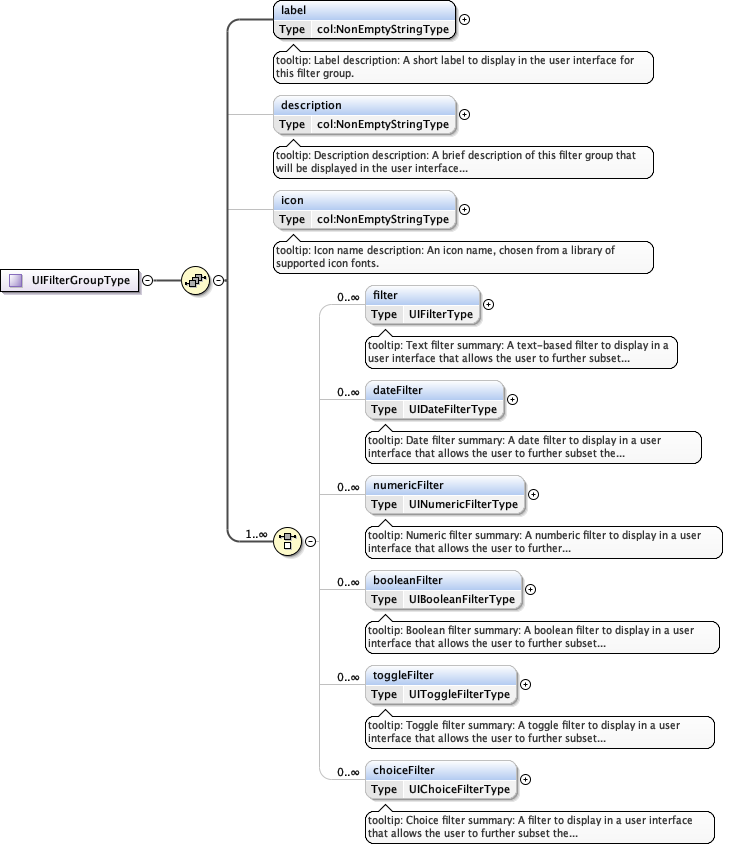
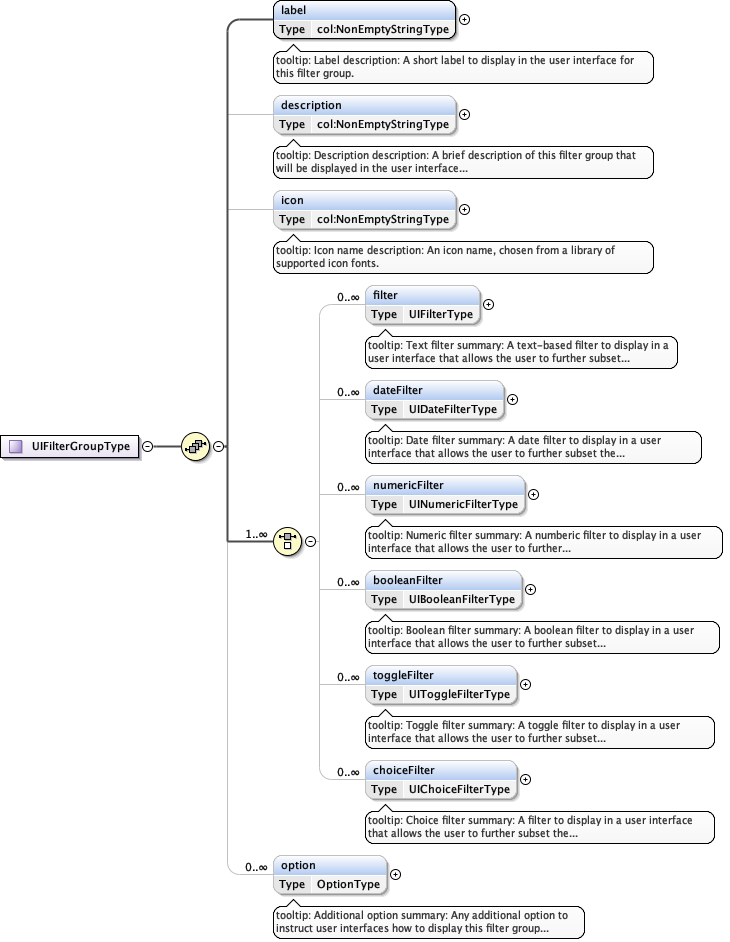
Add <option> to UIFilterGroups type
Closes issue #93

Changed region(s): [[0.3014, 0.0, 0.9945, 1.0], [0.0, 0.307, 0.3014, 0.3684], [0.0, 0.4604, 0.3014, 0.4911]]

diff --git a/docs/web/schema/portals_xsd.html b/docs/web/schema/portals_xsd.html
@@ -66,6 +66,7 @@
 				'properties_ChoiceType_value', 
 				'properties_ChoiceType_choiceOptions', 
 				'properties_UIChoiceFilterType_chooseMultiple', 
+				'properties_UIFilterGroupType_option', 
 				'properties_portal_option');
 var facetsBoxes= new Array('facets_ImageType_identifier', 
 				'facets_ImageType_label', 
@@ -118,6 +119,7 @@ var instanceBoxes= new Array('instance_portal',
 				'instance_UIFilterGroupType_choiceFilter', 
 				'instance_UIChoiceFilterType_choice', 
 				'instance_ChoiceType_choiceOptions', 
+				'instance_UIFilterGroupType_option', 
 				'instance_portal_option');
 var diagramBoxes= new Array('diagram_portal', 
 				'diagram_portal_logo', 
@@ -179,6 +181,7 @@ var diagramBoxes= new Array('diagram_portal',
 				'diagram_ChoiceType_value', 
 				'diagram_ChoiceType_choiceOptions', 
 				'diagram_UIChoiceFilterType_chooseMultiple', 
+				'diagram_UIFilterGroupType_option', 
 				'diagram_portal_option', 
 				'diagram_ImageType', 
 				'diagram_ContentSectionType', 
@@ -253,6 +256,7 @@ var annotationBoxes= new Array('annotations_portal',
 				'annotations_ChoiceType_value', 
 				'annotations_ChoiceType_choiceOptions', 
 				'annotations_UIChoiceFilterType_chooseMultiple', 
+				'annotations_UIFilterGroupType_option', 
 				'annotations_portal_option', 
 				'annotations_OptionType', 
 				'annotations_UIOptionsType');
@@ -289,6 +293,7 @@ var modelBoxes= new Array('model_portal',
 				'model_UIFilterGroupType_choiceFilter', 
 				'model_UIChoiceFilterType_choice', 
 				'model_ChoiceType_choiceOptions', 
+				'model_UIFilterGroupType_option', 
 				'model_portal_option', 
 				'model_ImageType', 
 				'model_ContentSectionType', 
@@ -3438,7 +3443,7 @@ var modelBoxes= new Array('model_portal',
                            <div class="floatRight"><input id="button_diagram_portal_filterGroup" type="image" src="img/btM.gif" value="-" onclick="switchState('diagram_portal_filterGroup');" class="control" /></div>
                         </td>
                         <td class="diagram">
-                           <div id="diagram_portal_filterGroup" style="display:block"><img alt="Diagram" border="0" src="img/portals_xsd_Element_filterGroup.png" usemap="#portals_xsd_Element_filterGroup" /><map name="portals_xsd_Element_filterGroup" id="portals_xsd_Element_filterGroup"><area alt="portals_xsd.tmp#UIFilterGroupType_label" href="portals_xsd.html#UIFilterGroupType_label" coords="317,40,514,82" /><area alt="portals_xsd.tmp#UIFilterGroupType_description" href="portals_xsd.html#UIFilterGroupType_description" coords="317,135,514,177" /><area alt="portals_xsd.tmp#UIFilterGroupType_icon" href="portals_xsd.html#UIFilterGroupType_icon" coords="317,230,514,272" /><area alt="portals_xsd.tmp#UIFilterGroupType_filter" href="portals_xsd.html#UIFilterGroupType_filter" coords="409,325,538,367" /><area alt="portals_xsd.tmp#UIFilterGroupType_dateFilter" href="portals_xsd.html#UIFilterGroupType_dateFilter" coords="409,420,562,462" /><area alt="portals_xsd.tmp#UIFilterGroupType_numericFilter" href="portals_xsd.html#UIFilterGroupType_numericFilter" coords="409,515,583,557" /><area alt="portals_xsd.tmp#UIFilterGroupType_booleanFilter" href="portals_xsd.html#UIFilterGroupType_booleanFilter" coords="409,610,580,652" /><area alt="portals_xsd.tmp#UIFilterGroupType_toggleFilter" href="portals_xsd.html#UIFilterGroupType_toggleFilter" coords="409,705,575,747" /><area alt="portals_xsd.tmp#UIFilterGroupType_choiceFilter" href="portals_xsd.html#UIFilterGroupType_choiceFilter" coords="409,800,575,842" /><area alt="portals_xsd.tmp#UIFilterGroupType" href="portals_xsd.html#UIFilterGroupType" coords="214,3,363,25" /></map></div>
+                           <div id="diagram_portal_filterGroup" style="display:block"><img alt="Diagram" border="0" src="img/portals_xsd_Element_filterGroup.png" usemap="#portals_xsd_Element_filterGroup" /><map name="portals_xsd_Element_filterGroup" id="portals_xsd_Element_filterGroup"><area alt="portals_xsd.tmp#UIFilterGroupType_label" href="portals_xsd.html#UIFilterGroupType_label" coords="317,40,514,82" /><area alt="portals_xsd.tmp#UIFilterGroupType_description" href="portals_xsd.html#UIFilterGroupType_description" coords="317,135,514,177" /><area alt="portals_xsd.tmp#UIFilterGroupType_icon" href="portals_xsd.html#UIFilterGroupType_icon" coords="317,230,514,272" /><area alt="portals_xsd.tmp#UIFilterGroupType_filter" href="portals_xsd.html#UIFilterGroupType_filter" coords="409,325,538,367" /><area alt="portals_xsd.tmp#UIFilterGroupType_dateFilter" href="portals_xsd.html#UIFilterGroupType_dateFilter" coords="409,420,562,462" /><area alt="portals_xsd.tmp#UIFilterGroupType_numericFilter" href="portals_xsd.html#UIFilterGroupType_numericFilter" coords="409,515,583,557" /><area alt="portals_xsd.tmp#UIFilterGroupType_booleanFilter" href="portals_xsd.html#UIFilterGroupType_booleanFilter" coords="409,610,580,652" /><area alt="portals_xsd.tmp#UIFilterGroupType_toggleFilter" href="portals_xsd.html#UIFilterGroupType_toggleFilter" coords="409,705,575,747" /><area alt="portals_xsd.tmp#UIFilterGroupType_choiceFilter" href="portals_xsd.html#UIFilterGroupType_choiceFilter" coords="409,800,575,842" /><area alt="portals_xsd.tmp#UIFilterGroupType_option" href="portals_xsd.html#UIFilterGroupType_option" coords="317,895,445,937" /><area alt="portals_xsd.tmp#UIFilterGroupType" href="portals_xsd.html#UIFilterGroupType" coords="214,3,363,25" /></map></div>
                         </td>
                      </tr>
                      <tr>
@@ -3473,12 +3478,12 @@ var modelBoxes= new Array('model_portal',
                         <td class="firstColumn"><b>Model</b><div class="floatRight"><input id="button_model_portal_filterGroup" type="image" src="img/btM.gif" value="-" onclick="switchState('model_portal_filterGroup');" class="control" /></div>
                         </td>
                         <td>
-                           <div id="model_portal_filterGroup" style="display:block"><b><a href="portals_xsd.html#UIFilterGroupType_label" target="mainFrame" title="No namespace" onclick="updatePageTitle('Schema documentation for portals.xsd')">label</a></b> , <b><a href="portals_xsd.html#UIFilterGroupType_description" target="mainFrame" title="No namespace" onclick="updatePageTitle('Schema documentation for portals.xsd')">description{0,1}</a></b> , <b><a href="portals_xsd.html#UIFilterGroupType_icon" target="mainFrame" title="No namespace" onclick="updatePageTitle('Schema documentation for portals.xsd')">icon{0,1}</a></b> , (<b><a href="portals_xsd.html#UIFilterGroupType_filter" target="mainFrame" title="No namespace" onclick="updatePageTitle('Schema documentation for portals.xsd')">filter*</a></b> | <b><a href="portals_xsd.html#UIFilterGroupType_dateFilter" target="mainFrame" title="No namespace" onclick="updatePageTitle('Schema documentation for portals.xsd')">dateFilter*</a></b> | <b><a href="portals_xsd.html#UIFilterGroupType_numericFilter" target="mainFrame" title="No namespace" onclick="updatePageTitle('Schema documentation for portals.xsd')">numericFilter*</a></b> | <b><a href="portals_xsd.html#UIFilterGroupType_booleanFilter" target="mainFrame" title="No namespace" onclick="updatePageTitle('Schema documentation for portals.xsd')">booleanFilter*</a></b> | <b><a href="portals_xsd.html#UIFilterGroupType_toggleFilter" target="mainFrame" title="No namespace" onclick="updatePageTitle('Schema documentation for portals.xsd')">toggleFilter*</a></b> | <b><a href="portals_xsd.html#UIFilterGroupType_choiceFilter" target="mainFrame" title="No namespace" onclick="updatePageTitle('Schema documentation for portals.xsd')">choiceFilter*</a></b>)</div>
+                           <div id="model_portal_filterGroup" style="display:block"><b><a href="portals_xsd.html#UIFilterGroupType_label" target="mainFrame" title="No namespace" onclick="updatePageTitle('Schema documentation for portals.xsd')">label</a></b> , <b><a href="portals_xsd.html#UIFilterGroupType_description" target="mainFrame" title="No namespace" onclick="updatePageTitle('Schema documentation for portals.xsd')">description{0,1}</a></b> , <b><a href="portals_xsd.html#UIFilterGroupType_icon" target="mainFrame" title="No namespace" onclick="updatePageTitle('Schema documentation for portals.xsd')">icon{0,1}</a></b> , (<b><a href="portals_xsd.html#UIFilterGroupType_filter" target="mainFrame" title="No namespace" onclick="updatePageTitle('Schema documentation for portals.xsd')">filter*</a></b> | <b><a href="portals_xsd.html#UIFilterGroupType_dateFilter" target="mainFrame" title="No namespace" onclick="updatePageTitle('Schema documentation for portals.xsd')">dateFilter*</a></b> | <b><a href="portals_xsd.html#UIFilterGroupType_numericFilter" target="mainFrame" title="No namespace" onclick="updatePageTitle('Schema documentation for portals.xsd')">numericFilter*</a></b> | <b><a href="portals_xsd.html#UIFilterGroupType_booleanFilter" target="mainFrame" title="No namespace" onclick="updatePageTitle('Schema documentation for portals.xsd')">booleanFilter*</a></b> | <b><a href="portals_xsd.html#UIFilterGroupType_toggleFilter" target="mainFrame" title="No namespace" onclick="updatePageTitle('Schema documentation for portals.xsd')">toggleFilter*</a></b> | <b><a href="portals_xsd.html#UIFilterGroupType_choiceFilter" target="mainFrame" title="No namespace" onclick="updatePageTitle('Schema documentation for portals.xsd')">choiceFilter*</a></b>) , <b><a href="portals_xsd.html#UIFilterGroupType_option" target="mainFrame" title="No namespace" onclick="updatePageTitle('Schema documentation for portals.xsd')">option*</a></b></div>
                         </td>
                      </tr>
                      <tr>
                         <td class="firstColumn"><b>Children</b></td>
-                        <td><b><a href="portals_xsd.html#UIFilterGroupType_booleanFilter" target="mainFrame" title="No namespace" onclick="updatePageTitle('Schema documentation for portals.xsd')">booleanFilter</a></b>, <b><a href="portals_xsd.html#UIFilterGroupType_choiceFilter" target="mainFrame" title="No namespace" onclick="updatePageTitle('Schema documentation for portals.xsd')">choiceFilter</a></b>, <b><a href="portals_xsd.html#UIFilterGroupType_dateFilter" target="mainFrame" title="No namespace" onclick="updatePageTitle('Schema documentation for portals.xsd')">dateFilter</a></b>, <b><a href="portals_xsd.html#UIFilterGroupType_description" target="mainFrame" title="No namespace" onclick="updatePageTitle('Schema documentation for portals.xsd')">description</a></b>, <b><a href="portals_xsd.html#UIFilterGroupType_filter" target="mainFrame" title="No namespace" onclick="updatePageTitle('Schema documentation for portals.xsd')">filter</a></b>, <b><a href="portals_xsd.html#UIFilterGroupType_icon" target="mainFrame" title="No namespace" onclick="updatePageTitle('Schema documentation for portals.xsd')">icon</a></b>, <b><a href="portals_xsd.html#UIFilterGroupType_label" target="mainFrame" title="No namespace" onclick="updatePageTitle('Schema documentation for portals.xsd')">label</a></b>, <b><a href="portals_xsd.html#UIFilterGroupType_numericFilter" target="mainFrame" title="No namespace" onclick="updatePageTitle('Schema documentation for portals.xsd')">numericFilter</a></b>, <b><a href="portals_xsd.html#UIFilterGroupType_toggleFilter" target="mainFrame" title="No namespace" onclick="updatePageTitle('Schema documentation for portals.xsd')">toggleFilter</a></b></td>
+                        <td><b><a href="portals_xsd.html#UIFilterGroupType_booleanFilter" target="mainFrame" title="No namespace" onclick="updatePageTitle('Schema documentation for portals.xsd')">booleanFilter</a></b>, <b><a href="portals_xsd.html#UIFilterGroupType_choiceFilter" target="mainFrame" title="No namespace" onclick="updatePageTitle('Schema documentation for portals.xsd')">choiceFilter</a></b>, <b><a href="portals_xsd.html#UIFilterGroupType_dateFilter" target="mainFrame" title="No namespace" onclick="updatePageTitle('Schema documentation for portals.xsd')">dateFilter</a></b>, <b><a href="portals_xsd.html#UIFilterGroupType_description" target="mainFrame" title="No namespace" onclick="updatePageTitle('Schema documentation for portals.xsd')">description</a></b>, <b><a href="portals_xsd.html#UIFilterGroupType_filter" target="mainFrame" title="No namespace" onclick="updatePageTitle('Schema documentation for portals.xsd')">filter</a></b>, <b><a href="portals_xsd.html#UIFilterGroupType_icon" target="mainFrame" title="No namespace" onclick="updatePageTitle('Schema documentation for portals.xsd')">icon</a></b>, <b><a href="portals_xsd.html#UIFilterGroupType_label" target="mainFrame" title="No namespace" onclick="updatePageTitle('Schema documentation for portals.xsd')">label</a></b>, <b><a href="portals_xsd.html#UIFilterGroupType_numericFilter" target="mainFrame" title="No namespace" onclick="updatePageTitle('Schema documentation for portals.xsd')">numericFilter</a></b>, <b><a href="portals_xsd.html#UIFilterGroupType_option" target="mainFrame" title="No namespace" onclick="updatePageTitle('Schema documentation for portals.xsd')">option</a></b>, <b><a href="portals_xsd.html#UIFilterGroupType_toggleFilter" target="mainFrame" title="No namespace" onclick="updatePageTitle('Schema documentation for portals.xsd')">toggleFilter</a></b></td>
                      </tr>
                      <tr>
                         <td class="firstColumn">
@@ -3500,6 +3505,7 @@ var modelBoxes= new Array('model_portal',
   </span><span class="tEl">&lt;booleanFilter</span><span class="tEl">&gt;</span><span class="tT" style="white-space:normal">{0,unbounded}</span><span class="tEl">&lt;/booleanFilter&gt;</span><span class="tI">
   </span><span class="tEl">&lt;toggleFilter</span><span class="tEl">&gt;</span><span class="tT" style="white-space:normal">{0,unbounded}</span><span class="tEl">&lt;/toggleFilter&gt;</span><span class="tI">
   </span><span class="tEl">&lt;choiceFilter</span><span class="tEl">&gt;</span><span class="tT" style="white-space:normal">{0,unbounded}</span><span class="tEl">&lt;/choiceFilter&gt;</span><span class="tI">
+  </span><span class="tEl">&lt;option</span><span class="tEl">&gt;</span><span class="tT" style="white-space:normal">{0,unbounded}</span><span class="tEl">&lt;/option&gt;</span><span class="tI">
 </span><span class="tEl">&lt;/filterGroup&gt;</span></pre>
                                     </td>
                                  </tr>
@@ -7628,6 +7634,122 @@ var modelBoxes= new Array('model_portal',
             <td class="rt_lineBottom"></td>
             <td class="rt_cornerBottomRight"></td>
          </tr>
+      </table><a id="UIFilterGroupType_option"></a><div class="componentTitle">Element <span class="qname"><b><a href="portals_xsd.html#UIFilterGroupType" target="mainFrame" title="https://purl.dataone.org/portals-1.0.0" onclick="updatePageTitle('Schema documentation for portals.xsd')">UIFilterGroupType</a></b> / option</span></div>
+      <table class="rt">
+         <tr>
+            <td class="rt_cornerTopLeft"></td>
+            <td class="rt_lineTop"></td>
+            <td class="rt_cornerTopRight"></td>
+         </tr>
+         <tr>
+            <td class="rt_lineLeft"></td>
+            <td class="rt_content">
+               <table class="component">
+                  <tbody>
+                     <tr>
+                        <td class="firstColumn"><b>Namespace</b></td>
+                        <td>No namespace</td>
+                     </tr>
+                     <tr>
+                        <td class="firstColumn">
+                           <div class="floatLeft"><b>Annotations</b></div>
+                           <div class="floatRight"><input id="button_annotations_UIFilterGroupType_option" type="image" src="img/btM.gif" value="-" onclick="switchState('annotations_UIFilterGroupType_option');" class="control" /></div>
+                        </td>
+                        <td>
+                           <div id="annotations_UIFilterGroupType_option" style="display:block">
+                              <div class="annotation">
+                                 <table style="table-layout:fixed;white-space:pre-wrap;white-space:-moz-pre-wrap;white-space:-pre-wrap;white-space: -o-pre-wrap;word-wrap: break-word;_white-space:pre;" class="preWrapContainer">
+                                    <tr>
+                                       <td width="100%">
+                                          <pre><span class="tT">tooltip: Additional option</span><span class="tI">
+</span><span class="tT"></span><span class="tI">
+</span><span class="tT">summary: Any additional option to instruct user interfaces how to display this</span><span class="tI">
+</span><span class="tT">              filter group in the portal.</span></pre>
+                                       </td>
+                                    </tr>
+                                 </table>
+                              </div>
+                           </div>
+                        </td>
+                     </tr>
+                     <tr>
+                        <td class="firstColumn">
+                           <div class="floatLeft"><b>Diagram</b></div>
+                           <div class="floatRight"><input id="button_diagram_UIFilterGroupType_option" type="image" src="img/btM.gif" value="-" onclick="switchState('diagram_UIFilterGroupType_option');" class="control" /></div>
+                        </td>
+                        <td class="diagram">
+                           <div id="diagram_UIFilterGroupType_option" style="display:block"><img alt="Diagram" border="0" src="img/portals_xsd_Element_option_3.png" usemap="#portals_xsd_Element_option_3" /><map name="portals_xsd_Element_option_3" id="portals_xsd_Element_option_3"><area alt="portals_xsd.tmp#OptionType_optionName" href="portals_xsd.html#OptionType_optionName" coords="282,40,479,82" /><area alt="portals_xsd.tmp#OptionType_optionValue" href="portals_xsd.html#OptionType_optionValue" coords="282,135,479,177" /><area alt="portals_xsd.tmp#OptionType" href="portals_xsd.html#OptionType" coords="179,3,293,25" /></map></div>
+                        </td>
+                     </tr>
+                     <tr>
+                        <td class="firstColumn"><b>Type</b></td>
+                        <td><b><a href="portals_xsd.html#OptionType" target="mainFrame" title="https://purl.dataone.org/portals-1.0.0" onclick="updatePageTitle('Schema documentation for portals.xsd')">OptionType</a></b></td>
+                     </tr>
+                     <tr>
+                        <td class="firstColumn">
+                           <div class="floatLeft"><b>Properties</b></div>
+                           <div class="floatRight"><input id="button_properties_UIFilterGroupType_option" type="image" src="img/btM.gif" value="-" onclick="switchState('properties_UIFilterGroupType_option');" class="control" /></div>
+                        </td>
+                        <td>
+                           <div id="properties_UIFilterGroupType_option" style="display:block">
+                              <table class="propertiesTable">
+                                 <tr>
+                                    <td class="firstColumn" style="white-space: nowrap;">content</td>
+                                    <td><b>complex</b></td>
+                                 </tr>
+                                 <tr>
+                                    <td class="firstColumn" style="white-space: nowrap;">minOccurs</td>
+                                    <td><b>0</b></td>
+                                 </tr>
+                                 <tr>
+                                    <td class="firstColumn" style="white-space: nowrap;">maxOccurs</td>
+                                    <td><b>unbounded</b></td>
+                                 </tr>
+                              </table>
+                           </div>
+                        </td>
+                     </tr>
+                     <tr>
+                        <td class="firstColumn"><b>Model</b><div class="floatRight"><input id="button_model_UIFilterGroupType_option" type="image" src="img/btM.gif" value="-" onclick="switchState('model_UIFilterGroupType_option');" class="control" /></div>
+                        </td>
+                        <td>
+                           <div id="model_UIFilterGroupType_option" style="display:block"><b><a href="portals_xsd.html#OptionType_optionName" target="mainFrame" title="No namespace" onclick="updatePageTitle('Schema documentation for portals.xsd')">optionName</a></b> , <b><a href="portals_xsd.html#OptionType_optionValue" target="mainFrame" title="No namespace" onclick="updatePageTitle('Schema documentation for portals.xsd')">optionValue+</a></b></div>
+                        </td>
+                     </tr>
+                     <tr>
+                        <td class="firstColumn"><b>Children</b></td>
+                        <td><b><a href="portals_xsd.html#OptionType_optionName" target="mainFrame" title="No namespace" onclick="updatePageTitle('Schema documentation for portals.xsd')">optionName</a></b>, <b><a href="portals_xsd.html#OptionType_optionValue" target="mainFrame" title="No namespace" onclick="updatePageTitle('Schema documentation for portals.xsd')">optionValue</a></b></td>
+                     </tr>
+                     <tr>
+                        <td class="firstColumn">
+                           <div class="floatLeft"><b>Instance</b></div>
+                           <div class="floatRight"><input id="button_instance_UIFilterGroupType_option" type="image" src="img/btM.gif" value="-" onclick="switchState('instance_UIFilterGroupType_option');" class="control" /></div>
+                        </td>
+                        <td>
+                           <div id="instance_UIFilterGroupType_option" style="display:block">
+                              <table style="table-layout:fixed;white-space:pre-wrap;white-space:-moz-pre-wrap;white-space:-pre-wrap;white-space: -o-pre-wrap;word-wrap: break-word;_white-space:pre;" class="preWrapContainer">
+                                 <tr>
+                                    <td width="100%">
+                                       <pre><span class="tEl">&lt;option</span><span class="tEl">&gt;</span><span class="tI">
+  </span><span class="tEl">&lt;optionName</span><span class="tEl">&gt;</span><span class="tT" style="white-space:normal">{1,1}</span><span class="tEl">&lt;/optionName&gt;</span><span class="tI">
+  </span><span class="tEl">&lt;optionValue</span><span class="tEl">&gt;</span><span class="tT" style="white-space:normal">{1,unbounded}</span><span class="tEl">&lt;/optionValue&gt;</span><span class="tI">
+</span><span class="tEl">&lt;/option&gt;</span></pre>
+                                    </td>
+                                 </tr>
+                              </table>
+                           </div>
+                        </td>
+                     </tr>
+                  </tbody>
+               </table>
+            </td>
+            <td class="rt_lineRight"></td>
+         </tr>
+         <tr>
+            <td class="rt_cornerBottomLeft"></td>
+            <td class="rt_lineBottom"></td>
+            <td class="rt_cornerBottomRight"></td>
+         </tr>
       </table><a id="portal_option"></a><div class="componentTitle">Element <span class="qname"><b><a href="portals_xsd.html#portal" target="mainFrame" title="https://purl.dataone.org/portals-1.0.0" onclick="updatePageTitle('Schema documentation for portals.xsd')">portal</a></b> / option</span></div>
       <table class="rt">
          <tr>
@@ -7673,7 +7795,7 @@ var modelBoxes= new Array('model_portal',
                            <div class="floatRight"><input id="button_diagram_portal_option" type="image" src="img/btM.gif" value="-" onclick="switchState('diagram_portal_option');" class="control" /></div>
                         </td>
                         <td class="diagram">
-                           <div id="diagram_portal_option" style="display:block"><img alt="Diagram" border="0" src="img/portals_xsd_Element_option_3.png" usemap="#portals_xsd_Element_option_3" /><map name="portals_xsd_Element_option_3" id="portals_xsd_Element_option_3"><area alt="portals_xsd.tmp#OptionType_optionName" href="portals_xsd.html#OptionType_optionName" coords="282,40,479,82" /><area alt="portals_xsd.tmp#OptionType_optionValue" href="portals_xsd.html#OptionType_optionValue" coords="282,135,479,177" /><area alt="portals_xsd.tmp#OptionType" href="portals_xsd.html#OptionType" coords="179,3,293,25" /></map></div>
+                           <div id="diagram_portal_option" style="display:block"><img alt="Diagram" border="0" src="img/portals_xsd_Element_option_4.png" usemap="#portals_xsd_Element_option_4" /><map name="portals_xsd_Element_option_4" id="portals_xsd_Element_option_4"><area alt="portals_xsd.tmp#OptionType_optionName" href="portals_xsd.html#OptionType_optionName" coords="282,40,479,82" /><area alt="portals_xsd.tmp#OptionType_optionValue" href="portals_xsd.html#OptionType_optionValue" coords="282,135,479,177" /><area alt="portals_xsd.tmp#OptionType" href="portals_xsd.html#OptionType" coords="179,3,293,25" /></map></div>
                         </td>
                      </tr>
                      <tr>
@@ -7989,19 +8111,19 @@ var modelBoxes= new Array('model_portal',
                            <div class="floatRight"><input id="button_diagram_UIFilterGroupType" type="image" src="img/btM.gif" value="-" onclick="switchState('diagram_UIFilterGroupType');" class="control" /></div>
                         </td>
                         <td class="diagram">
-                           <div id="diagram_UIFilterGroupType" style="display:block"><img alt="Diagram" border="0" src="img/portals_xsd_Complex_Type_UIFilterGroupType.png" usemap="#portals_xsd_Complex_Type_UIFilterGroupType" /><map name="portals_xsd_Complex_Type_UIFilterGroupType" id="portals_xsd_Complex_Type_UIFilterGroupType"><area alt="portals_xsd.tmp#UIFilterGroupType_label" href="portals_xsd.html#UIFilterGroupType_label" coords="273,0,470,42" /><area alt="portals_xsd.tmp#UIFilterGroupType_description" href="portals_xsd.html#UIFilterGroupType_description" coords="273,95,470,137" /><area alt="portals_xsd.tmp#UIFilterGroupType_icon" href="portals_xsd.html#UIFilterGroupType_icon" coords="273,190,470,232" /><area alt="portals_xsd.tmp#UIFilterGroupType_filter" href="portals_xsd.html#UIFilterGroupType_filter" coords="365,285,494,327" /><area alt="portals_xsd.tmp#UIFilterGroupType_dateFilter" href="portals_xsd.html#UIFilterGroupType_dateFilter" coords="365,380,518,422" /><area alt="portals_xsd.tmp#UIFilterGroupType_numericFilter" href="portals_xsd.html#UIFilterGroupType_numericFilter" coords="365,475,539,517" /><area alt="portals_xsd.tmp#UIFilterGroupType_booleanFilter" href="portals_xsd.html#UIFilterGroupType_booleanFilter" coords="365,570,536,612" /><area alt="portals_xsd.tmp#UIFilterGroupType_toggleFilter" href="portals_xsd.html#UIFilterGroupType_toggleFilter" coords="365,665,531,707" /><area alt="portals_xsd.tmp#UIFilterGroupType_choiceFilter" href="portals_xsd.html#UIFilterGroupType_choiceFilter" coords="365,760,531,802" /></map></div>
+                           <div id="diagram_UIFilterGroupType" style="display:block"><img alt="Diagram" border="0" src="img/portals_xsd_Complex_Type_UIFilterGroupType.png" usemap="#portals_xsd_Complex_Type_UIFilterGroupType" /><map name="portals_xsd_Complex_Type_UIFilterGroupType" id="portals_xsd_Complex_Type_UIFilterGroupType"><area alt="portals_xsd.tmp#UIFilterGroupType_label" href="portals_xsd.html#UIFilterGroupType_label" coords="273,0,470,42" /><area alt="portals_xsd.tmp#UIFilterGroupType_description" href="portals_xsd.html#UIFilterGroupType_description" coords="273,95,470,137" /><area alt="portals_xsd.tmp#UIFilterGroupType_icon" href="portals_xsd.html#UIFilterGroupType_icon" coords="273,190,470,232" /><area alt="portals_xsd.tmp#UIFilterGroupType_filter" href="portals_xsd.html#UIFilterGroupType_filter" coords="365,285,494,327" /><area alt="portals_xsd.tmp#UIFilterGroupType_dateFilter" href="portals_xsd.html#UIFilterGroupType_dateFilter" coords="365,380,518,422" /><area alt="portals_xsd.tmp#UIFilterGroupType_numericFilter" href="portals_xsd.html#UIFilterGroupType_numericFilter" coords="365,475,539,517" /><area alt="portals_xsd.tmp#UIFilterGroupType_booleanFilter" href="portals_xsd.html#UIFilterGroupType_booleanFilter" coords="365,570,536,612" /><area alt="portals_xsd.tmp#UIFilterGroupType_toggleFilter" href="portals_xsd.html#UIFilterGroupType_toggleFilter" coords="365,665,531,707" /><area alt="portals_xsd.tmp#UIFilterGroupType_choiceFilter" href="portals_xsd.html#UIFilterGroupType_choiceFilter" coords="365,760,531,802" /><area alt="portals_xsd.tmp#UIFilterGroupType_option" href="portals_xsd.html#UIFilterGroupType_option" coords="273,855,401,897" /></map></div>
                         </td>
                      </tr>
                      <tr>
                         <td class="firstColumn"><b>Model</b><div class="floatRight"><input id="button_model_UIFilterGroupType" type="image" src="img/btM.gif" value="-" onclick="switchState('model_UIFilterGroupType');" class="control" /></div>
                         </td>
                         <td>
-                           <div id="model_UIFilterGroupType" style="display:block"><b><a href="portals_xsd.html#UIFilterGroupType_label" target="mainFrame" title="No namespace" onclick="updatePageTitle('Schema documentation for portals.xsd')">label</a></b> , <b><a href="portals_xsd.html#UIFilterGroupType_description" target="mainFrame" title="No namespace" onclick="updatePageTitle('Schema documentation for portals.xsd')">description{0,1}</a></b> , <b><a href="portals_xsd.html#UIFilterGroupType_icon" target="mainFrame" title="No namespace" onclick="updatePageTitle('Schema documentation for portals.xsd')">icon{0,1}</a></b> , (<b><a href="portals_xsd.html#UIFilterGroupType_filter" target="mainFrame" title="No namespace" onclick="updatePageTitle('Schema documentation for portals.xsd')">filter*</a></b> | <b><a href="portals_xsd.html#UIFilterGroupType_dateFilter" target="mainFrame" title="No namespace" onclick="updatePageTitle('Schema documentation for portals.xsd')">dateFilter*</a></b> | <b><a href="portals_xsd.html#UIFilterGroupType_numericFilter" target="mainFrame" title="No namespace" onclick="updatePageTitle('Schema documentation for portals.xsd')">numericFilter*</a></b> | <b><a href="portals_xsd.html#UIFilterGroupType_booleanFilter" target="mainFrame" title="No namespace" onclick="updatePageTitle('Schema documentation for portals.xsd')">booleanFilter*</a></b> | <b><a href="portals_xsd.html#UIFilterGroupType_toggleFilter" target="mainFrame" title="No namespace" onclick="updatePageTitle('Schema documentation for portals.xsd')">toggleFilter*</a></b> | <b><a href="portals_xsd.html#UIFilterGroupType_choiceFilter" target="mainFrame" title="No namespace" onclick="updatePageTitle('Schema documentation for portals.xsd')">choiceFilter*</a></b>)</div>
+                           <div id="model_UIFilterGroupType" style="display:block"><b><a href="portals_xsd.html#UIFilterGroupType_label" target="mainFrame" title="No namespace" onclick="updatePageTitle('Schema documentation for portals.xsd')">label</a></b> , <b><a href="portals_xsd.html#UIFilterGroupType_description" target="mainFrame" title="No namespace" onclick="updatePageTitle('Schema documentation for portals.xsd')">description{0,1}</a></b> , <b><a href="portals_xsd.html#UIFilterGroupType_icon" target="mainFrame" title="No namespace" onclick="updatePageTitle('Schema documentation for portals.xsd')">icon{0,1}</a></b> , (<b><a href="portals_xsd.html#UIFilterGroupType_filter" target="mainFrame" title="No namespace" onclick="updatePageTitle('Schema documentation for portals.xsd')">filter*</a></b> | <b><a href="portals_xsd.html#UIFilterGroupType_dateFilter" target="mainFrame" title="No namespace" onclick="updatePageTitle('Schema documentation for portals.xsd')">dateFilter*</a></b> | <b><a href="portals_xsd.html#UIFilterGroupType_numericFilter" target="mainFrame" title="No namespace" onclick="updatePageTitle('Schema documentation for portals.xsd')">numericFilter*</a></b> | <b><a href="portals_xsd.html#UIFilterGroupType_booleanFilter" target="mainFrame" title="No namespace" onclick="updatePageTitle('Schema documentation for portals.xsd')">booleanFilter*</a></b> | <b><a href="portals_xsd.html#UIFilterGroupType_toggleFilter" target="mainFrame" title="No namespace" onclick="updatePageTitle('Schema documentation for portals.xsd')">toggleFilter*</a></b> | <b><a href="portals_xsd.html#UIFilterGroupType_choiceFilter" target="mainFrame" title="No namespace" onclick="updatePageTitle('Schema documentation for portals.xsd')">choiceFilter*</a></b>) , <b><a href="portals_xsd.html#UIFilterGroupType_option" target="mainFrame" title="No namespace" onclick="updatePageTitle('Schema documentation for portals.xsd')">option*</a></b></div>
                         </td>
                      </tr>
                      <tr>
                         <td class="firstColumn"><b>Children</b></td>
-                        <td><b><a href="portals_xsd.html#UIFilterGroupType_booleanFilter" target="mainFrame" title="No namespace" onclick="updatePageTitle('Schema documentation for portals.xsd')">booleanFilter</a></b>, <b><a href="portals_xsd.html#UIFilterGroupType_choiceFilter" target="mainFrame" title="No namespace" onclick="updatePageTitle('Schema documentation for portals.xsd')">choiceFilter</a></b>, <b><a href="portals_xsd.html#UIFilterGroupType_dateFilter" target="mainFrame" title="No namespace" onclick="updatePageTitle('Schema documentation for portals.xsd')">dateFilter</a></b>, <b><a href="portals_xsd.html#UIFilterGroupType_description" target="mainFrame" title="No namespace" onclick="updatePageTitle('Schema documentation for portals.xsd')">description</a></b>, <b><a href="portals_xsd.html#UIFilterGroupType_filter" target="mainFrame" title="No namespace" onclick="updatePageTitle('Schema documentation for portals.xsd')">filter</a></b>, <b><a href="portals_xsd.html#UIFilterGroupType_icon" target="mainFrame" title="No namespace" onclick="updatePageTitle('Schema documentation for portals.xsd')">icon</a></b>, <b><a href="portals_xsd.html#UIFilterGroupType_label" target="mainFrame" title="No namespace" onclick="updatePageTitle('Schema documentation for portals.xsd')">label</a></b>, <b><a href="portals_xsd.html#UIFilterGroupType_numericFilter" target="mainFrame" title="No namespace" onclick="updatePageTitle('Schema documentation for portals.xsd')">numericFilter</a></b>, <b><a href="portals_xsd.html#UIFilterGroupType_toggleFilter" target="mainFrame" title="No namespace" onclick="updatePageTitle('Schema documentation for portals.xsd')">toggleFilter</a></b></td>
+                        <td><b><a href="portals_xsd.html#UIFilterGroupType_booleanFilter" target="mainFrame" title="No namespace" onclick="updatePageTitle('Schema documentation for portals.xsd')">booleanFilter</a></b>, <b><a href="portals_xsd.html#UIFilterGroupType_choiceFilter" target="mainFrame" title="No namespace" onclick="updatePageTitle('Schema documentation for portals.xsd')">choiceFilter</a></b>, <b><a href="portals_xsd.html#UIFilterGroupType_dateFilter" target="mainFrame" title="No namespace" onclick="updatePageTitle('Schema documentation for portals.xsd')">dateFilter</a></b>, <b><a href="portals_xsd.html#UIFilterGroupType_description" target="mainFrame" title="No namespace" onclick="updatePageTitle('Schema documentation for portals.xsd')">description</a></b>, <b><a href="portals_xsd.html#UIFilterGroupType_filter" target="mainFrame" title="No namespace" onclick="updatePageTitle('Schema documentation for portals.xsd')">filter</a></b>, <b><a href="portals_xsd.html#UIFilterGroupType_icon" target="mainFrame" title="No namespace" onclick="updatePageTitle('Schema documentation for portals.xsd')">icon</a></b>, <b><a href="portals_xsd.html#UIFilterGroupType_label" target="mainFrame" title="No namespace" onclick="updatePageTitle('Schema documentation for portals.xsd')">label</a></b>, <b><a href="portals_xsd.html#UIFilterGroupType_numericFilter" target="mainFrame" title="No namespace" onclick="updatePageTitle('Schema documentation for portals.xsd')">numericFilter</a></b>, <b><a href="portals_xsd.html#UIFilterGroupType_option" target="mainFrame" title="No namespace" onclick="updatePageTitle('Schema documentation for portals.xsd')">option</a></b>, <b><a href="portals_xsd.html#UIFilterGroupType_toggleFilter" target="mainFrame" title="No namespace" onclick="updatePageTitle('Schema documentation for portals.xsd')">toggleFilter</a></b></td>
                      </tr>
                   </tbody>
                </table>

diff --git a/docs/web/schema/index.indexListns.html b/docs/web/schema/index.indexListns.html
@@ -2250,6 +2250,7 @@
                                                 <div><b><a href="portals_xsd.html#UIFilterGroupType_icon" target="mainFrame" title="No namespace" onclick="updatePageTitle('Schema documentation for portals.xsd')">UIFilterGroupType/icon</a></b></div>
                                                 <div><b><a href="portals_xsd.html#UIFilterGroupType_label" target="mainFrame" title="No namespace" onclick="updatePageTitle('Schema documentation for portals.xsd')">UIFilterGroupType/label</a></b></div>
                                                 <div><b><a href="portals_xsd.html#UIFilterGroupType_numericFilter" target="mainFrame" title="No namespace" onclick="updatePageTitle('Schema documentation for portals.xsd')">UIFilterGroupType/numericFilter</a></b></div>
+                                                <div><b><a href="portals_xsd.html#UIFilterGroupType_option" target="mainFrame" title="No namespace" onclick="updatePageTitle('Schema documentation for portals.xsd')">UIFilterGroupType/option</a></b></div>
                                                 <div><b><a href="portals_xsd.html#UIFilterGroupType_toggleFilter" target="mainFrame" title="No namespace" onclick="updatePageTitle('Schema documentation for portals.xsd')">UIFilterGroupType/toggleFilter</a></b></div>
                                                 <div><b><a href="portals_xsd.html#UIFilterType_filterOptions" target="mainFrame" title="No namespace" onclick="updatePageTitle('Schema documentation for portals.xsd')">UIFilterType/filterOptions</a></b></div>
                                                 <div><b><a href="portals_xsd.html#UIFilterType_matchSubstring" target="mainFrame" title="No namespace" onclick="updatePageTitle('Schema documentation for portals.xsd')">UIFilterType/matchSubstring</a></b></div>

diff --git a/docs/web/schema/index.indexList.html b/docs/web/schema/index.indexList.html
@@ -340,6 +340,7 @@
                                                 <div><b><a href="portals_xsd.html#UIFilterGroupType_icon" target="mainFrame" title="No namespace" onclick="updatePageTitle('Schema documentation for portals.xsd')">UIFilterGroupType/icon</a></b></div>
                                                 <div><b><a href="portals_xsd.html#UIFilterGroupType_label" target="mainFrame" title="No namespace" onclick="updatePageTitle('Schema documentation for portals.xsd')">UIFilterGroupType/label</a></b></div>
                                                 <div><b><a href="portals_xsd.html#UIFilterGroupType_numericFilter" target="mainFrame" title="No namespace" onclick="updatePageTitle('Schema documentation for portals.xsd')">UIFilterGroupType/numericFilter</a></b></div>
+                                                <div><b><a href="portals_xsd.html#UIFilterGroupType_option" target="mainFrame" title="No namespace" onclick="updatePageTitle('Schema documentation for portals.xsd')">UIFilterGroupType/option</a></b></div>
                                                 <div><b><a href="portals_xsd.html#UIFilterGroupType_toggleFilter" target="mainFrame" title="No namespace" onclick="updatePageTitle('Schema documentation for portals.xsd')">UIFilterGroupType/toggleFilter</a></b></div>
                                                 <div><b><a href="portals_xsd.html#UIFilterType_filterOptions" target="mainFrame" title="No namespace" onclick="updatePageTitle('Schema documentation for portals.xsd')">UIFilterType/filterOptions</a></b></div>
                                                 <div><b><a href="portals_xsd.html#UIFilterType_matchSubstring" target="mainFrame" title="No namespace" onclick="updatePageTitle('Schema documentation for portals.xsd')">UIFilterType/matchSubstring</a></b></div>

diff --git a/docs/web/schema/index.indexListcomp.html b/docs/web/schema/index.indexListcomp.html
@@ -656,6 +656,7 @@
                                           <div><b><a href="portals_xsd.html#UIFilterGroupType_icon" target="mainFrame" title="No namespace" onclick="updatePageTitle('Schema documentation for portals.xsd')">UIFilterGroupType/icon</a></b></div>
                                           <div><b><a href="portals_xsd.html#UIFilterGroupType_label" target="mainFrame" title="No namespace" onclick="updatePageTitle('Schema documentation for portals.xsd')">UIFilterGroupType/label</a></b></div>
                                           <div><b><a href="portals_xsd.html#UIFilterGroupType_numericFilter" target="mainFrame" title="No namespace" onclick="updatePageTitle('Schema documentation for portals.xsd')">UIFilterGroupType/numericFilter</a></b></div>
+                                          <div><b><a href="portals_xsd.html#UIFilterGroupType_option" target="mainFrame" title="No namespace" onclick="updatePageTitle('Schema documentation for portals.xsd')">UIFilterGroupType/option</a></b></div>
                                           <div><b><a href="portals_xsd.html#UIFilterGroupType_toggleFilter" target="mainFrame" title="No namespace" onclick="updatePageTitle('Schema documentation for portals.xsd')">UIFilterGroupType/toggleFilter</a></b></div>
                                           <div><b><a href="portals_xsd.html#UIFilterType_filterOptions" target="mainFrame" title="No namespace" onclick="updatePageTitle('Schema documentation for portals.xsd')">UIFilterType/filterOptions</a></b></div>
                                           <div><b><a href="portals_xsd.html#UIFilterType_matchSubstring" target="mainFrame" title="No namespace" onclick="updatePageTitle('Schema documentation for portals.xsd')">UIFilterType/matchSubstring</a></b></div>

diff --git a/docs/options-for-MetacatUI.md b/docs/options-for-MetacatUI.md
@@ -11,6 +11,7 @@ The following document describes options that affect the display of portals in [
     - `<filterOptions>` (within types `UIFilterType`, `UIDateFilterType`, and `UIBooleanFilterType`)
     - `<trueOptions>` and `<falseOptions>` (within type `UIToggleFilterType`)
     - `<choiceOptions>` (within type `ChoiceType`, used as a `<choice>` element within `UIChoiceFilterType`)
+- `<filterGroup>` of type `<UIFilterGroupType>`
 
 `<option>` elements are of type `OptionType`, and follow the structure
 
